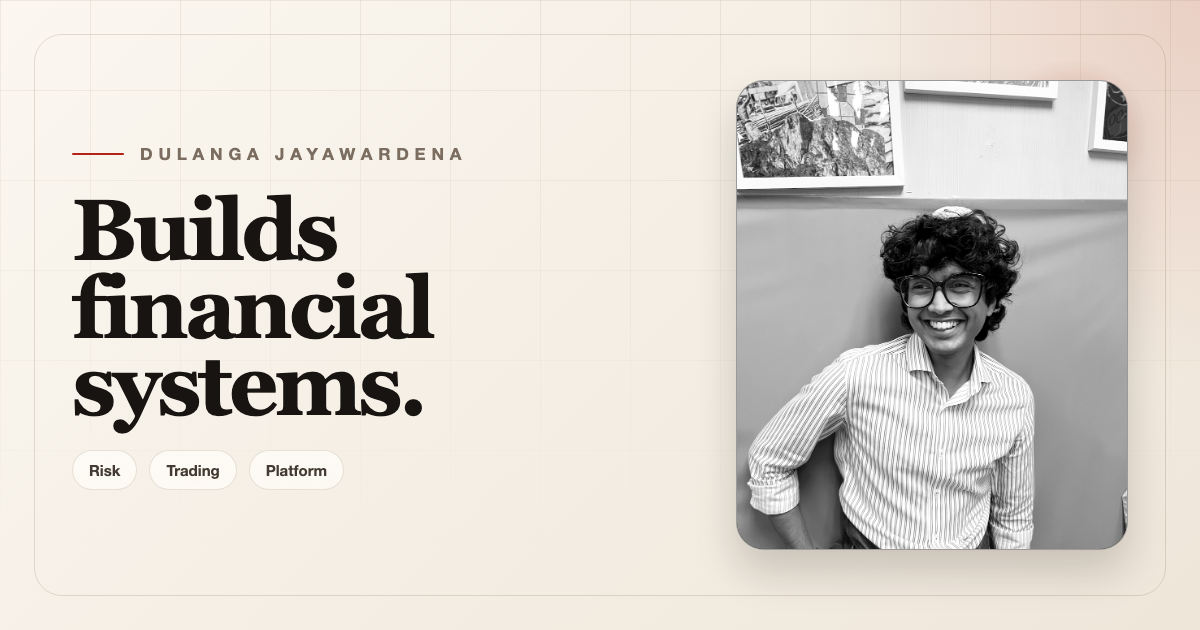
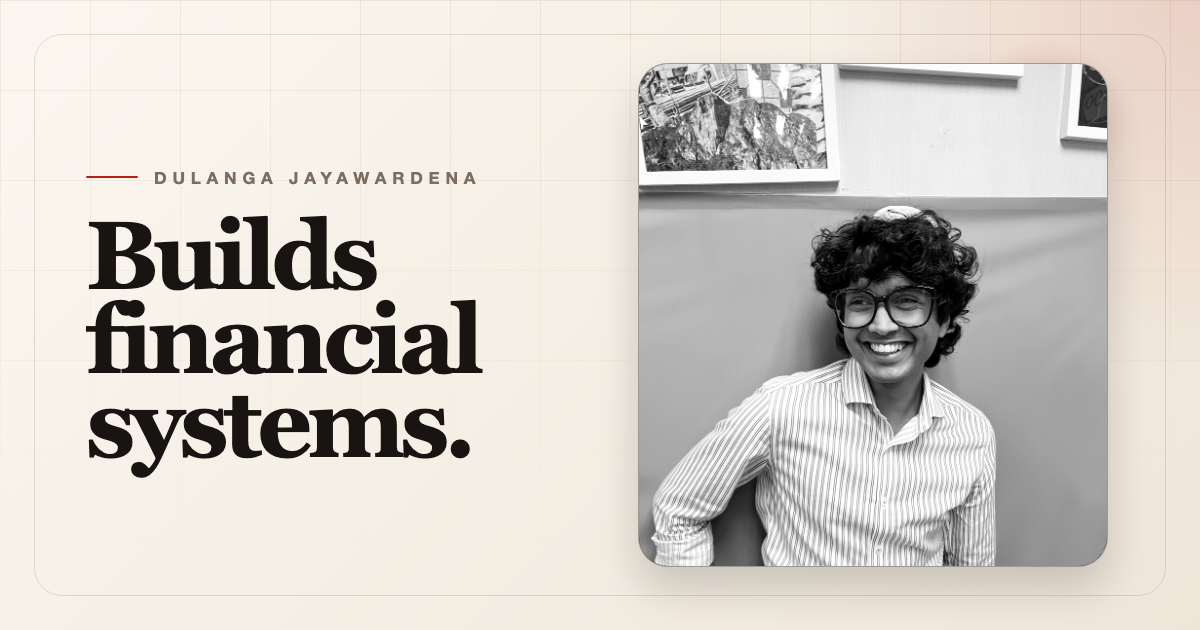
Map (#14)
* Adjust map default center and zoom to show Hong Kong and Sri Lanka

Center changed from [25, 60] to [15, 97] and zoom from 3 to 4 so the
map loads slightly zoomed in with both Hong Kong and Sri Lanka visible.

https://claude.ai/code/session_01XJ7zw423LfWtxxyLtKWt9m

* Card finalization

---------

Changed region(s): [[0.5242, 0.0905, 0.9558, 0.9349], [0.0617, 0.2111, 0.4008, 0.754], [0.0617, 0.2413, 0.0925, 0.2714]]

diff --git a/public/assets/social/og-home.html b/public/assets/social/og-home.html
@@ -3,22 +3,17 @@
   <head>
     <meta charset="UTF-8" />
     <meta name="viewport" content="width=device-width, initial-scale=1.0" />
-    <title>Dulanga Jayawardena Social Card</title>
+    <title>Social Card Option A</title>
     <style>
       :root {
         --paper: #f7f2ea;
-        --surface: rgba(255, 252, 247, 0.72);
         --ink: #171411;
-        --muted: #665d54;
         --line: rgba(124, 92, 56, 0.18);
         --accent: #b42318;
-        --accent-soft: rgba(180, 35, 24, 0.14);
         --shadow: rgba(21, 16, 11, 0.18);
       }
 
-      * {
-        box-sizing: border-box;
-      }
+      * { box-sizing: border-box; }
 
       body {
         margin: 0;
@@ -46,8 +41,7 @@
 
       .grain {
         opacity: 0.05;
-        background-image:
-          radial-gradient(rgba(20, 16, 12, 0.14) 0.7px, transparent 0.7px);
+        background-image: radial-gradient(rgba(20, 16, 12, 0.14) 0.7px, transparent 0.7px);
         background-size: 12px 12px;
         mix-blend-mode: multiply;
       }
@@ -71,18 +65,18 @@
         position: relative;
         z-index: 1;
         display: grid;
-        grid-template-columns: minmax(0, 1.18fr) 392px;
-        gap: 28px;
+        grid-template-columns: minmax(0, 1fr) 470px;
+        gap: 8px;
         align-items: center;
         height: 100%;
-        padding: 58px 72px;
+        padding: 58px 64px 58px 72px;
       }
 
       .eyebrow {
         display: inline-flex;
         align-items: center;
         gap: 16px;
-        margin-bottom: 28px;
+        margin-bottom: 26px;
         font-size: 17px;
         font-weight: 700;
         letter-spacing: 0.34em;
@@ -102,56 +96,39 @@
         margin: 0;
         max-width: 560px;
         font-family: Georgia, "Times New Roman", serif;
-        font-size: 86px;
-        line-height: 0.9;
-        letter-spacing: -0.04em;
+        font-size: 96px;
+        line-height: 0.88;
+        letter-spacing: -0.05em;
       }
 
-      .pills {
-        display: flex;
-        flex-wrap: wrap;
-        gap: 12px;
-        margin-top: 26px;
-      }
-
-      .pill {
-        padding: 10px 16px;
-        border-radius: 999px;
-        background: var(--surface);
-        border: 1px solid rgba(126, 96, 67, 0.16);
-        box-shadow: 0 10px 24px rgba(255, 255, 255, 0.24) inset;
-        font-size: 15px;
-        font-weight: 600;
-        color: #433b33;
-        backdrop-filter: blur(14px);
+      .copy {
+        transform: translateX(14px);
       }
 
       .portrait-wrap {
         position: relative;
         justify-self: end;
+        transform: translateX(-28px);
       }
 
       .portrait-wrap::before {
         content: "";
         position: absolute;
-        inset: -22px -20px auto auto;
-        width: 150px;
-        height: 150px;
+        inset: -26px -22px auto auto;
+        width: 168px;
+        height: 168px;
         border-radius: 50%;
         background: radial-gradient(circle, rgba(180, 35, 24, 0.22), transparent 70%);
-        filter: blur(1px);
       }
 
       .portrait-panel {
         position: relative;
-        width: 392px;
-        height: 470px;
+        width: 470px;
+        height: 504px;
         overflow: hidden;
-        border-radius: 28px;
+        border-radius: 30px;
         border: 1px solid rgba(255, 255, 255, 0.55);
-        box-shadow:
-          0 22px 40px var(--shadow),
-          0 1px 0 rgba(255, 255, 255, 0.4) inset;
+        box-shadow: 0 22px 40px var(--shadow), 0 1px 0 rgba(255, 255, 255, 0.4) inset;
         background: #251f1a;
       }
 
@@ -169,18 +146,11 @@
       <div class="grain"></div>
       <div class="grid"></div>
       <div class="frame"></div>
-
       <div class="content">
-        <section>
+        <section class="copy">
           <div class="eyebrow">Dulanga Jayawardena</div>
           <h1>Builds financial systems.</h1>
-          <div class="pills">
-            <span class="pill">Risk</span>
-            <span class="pill">Trading</span>
-            <span class="pill">Platform</span>
-          </div>
         </section>
-
         <div class="portrait-wrap">
           <div class="portrait-panel">
             <img src="../img/profile.jpeg" alt="Portrait of Dulanga Jayawardena" />

diff --git a/src/pages/MapPage.tsx b/src/pages/MapPage.tsx
@@ -81,8 +81,8 @@ function FitBounds({ locations, enabled }: { locations: PhotoLocation[], enabled
 
 /* ─── Map state in URL ───────────────────────────────────────────────────── */
 
-const DEFAULT_CENTER: [number, number] = [25, 60]
-const DEFAULT_ZOOM = 3
+const DEFAULT_CENTER: [number, number] = [15, 97]
+const DEFAULT_ZOOM = 5
 const MIN_ZOOM = 2
 const MAX_ZOOM = 5
 
